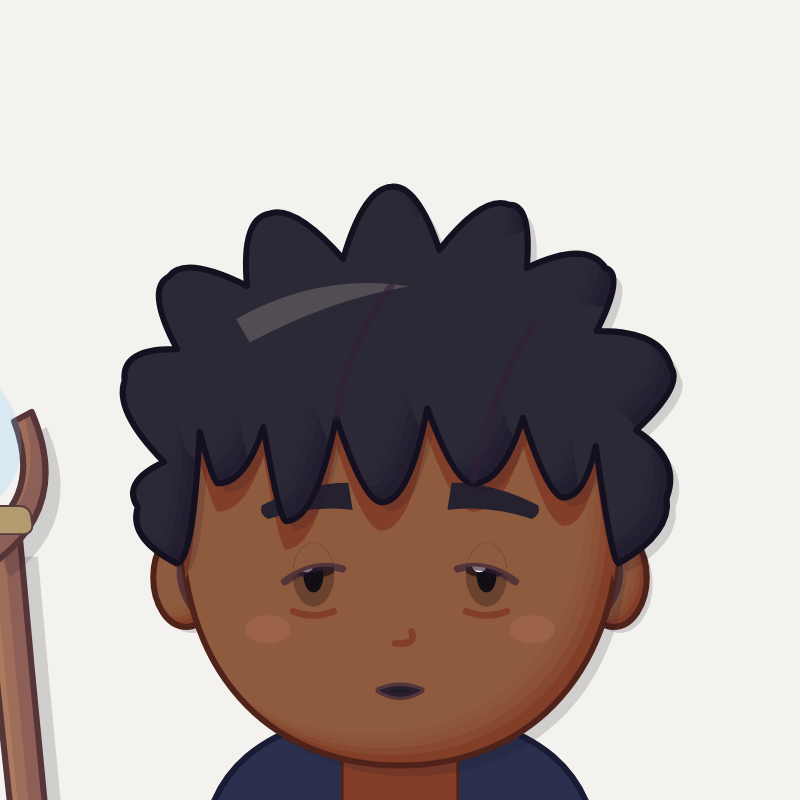
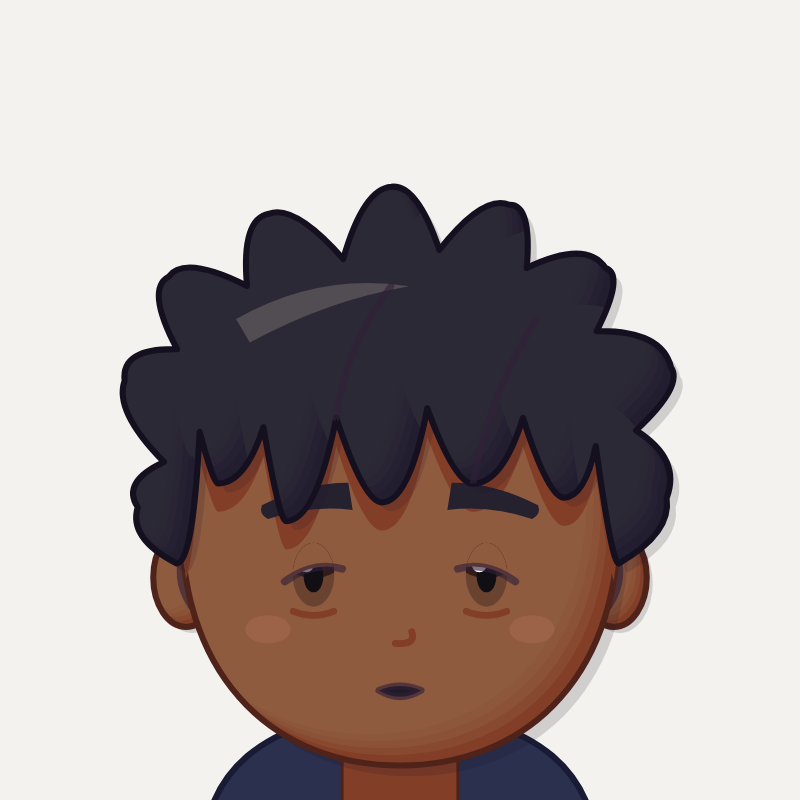
VALDOR: Davi conjura magia com as mãos (sem cajado), novas poses de magia
Claude-Session: https://claude.ai/code/session_01VxVnS8CFWSgiPr5zynEPoR

Changed region(s): [[0.0, 0.5, 0.0938, 1.0]]

diff --git a/animacao-do-chede/personagens/nova/davi/davi-jogo.js b/animacao-do-chede/personagens/nova/davi/davi-jogo.js
@@ -1,5 +1,7 @@
-// DAVI dentro do jogo VALDOR — raça: humano · classe: MAGO (que também luta) · nível 1, equipamento de iniciante.
-// Mesmo rosto e corpo do Davi (davi.js). Carregar: personagem-base.js, nova/cores.js, nova/equipamento.js, davi/davi.js.
+// DAVI dentro do jogo VALDOR — raça: humano · classe: MAGO que conjura com as MÃOS (sem cajado nem varinha) e também luta
+// com a adaga · nível 1, equipamento de iniciante. Mesmo rosto e corpo do Davi (davi.js).
+// Carregar: personagem-base.js, nova/cores.js, nova/equipamento.js, davi/davi.js.
+// Magia nas mãos: qualquer pose com "_magia: 1" (0 a 1.5 = força do brilho) acende as palmas.
 (function () {
   window.DAVI_JOGO_OPCOES = {
     top: { tipo: 'cardiga', cor: 'azulArdosia', corInterna: 'capuzDavi' },
@@ -10,7 +12,12 @@
     capuz: 'capuzDavi', manto: { cor: 'azulArdosia', barra: 'mostarda' },
     cinto: { cor: 'couroEscuro', fivela: 'pedra', bolsa: 'couro' },
     botas: { cor: 'couro', cano: 0.4 }, bracadeira: 'couro',
-    cajado: { mao: 'd', cristal: '#6FC8FF' }, adagaCinto: true,
+    magiaMaos: { cor: '111,200,255' }, adagaCinto: true,
   };
-  window.criarDaviJogo = (opcoes = {}, vista = 'frente') => window.equipar(window.criarDavi({ ...window.DAVI_JOGO_OPCOES, ...opcoes }, vista), window.DAVI_JOGO_EQUIP);
+  window.DAVI_JOGO_POSES = {
+    ...window.POSES_PADRAO,
+    conjurando: { vista: 'frente', expressao: 'determinado', angulos: { braco_d: 62, antebraco_d: 48, braco_e: -62, antebraco_e: -48, coxa_d: 4, canela_d: -2, coxa_e: -4, canela_e: 2, cabeca: 0, _magia: 1 } },
+    'magia-na-mao': { vista: 'tq', expressao: 'espanto', angulos: { braco_d: 75, antebraco_d: 70, mao_d: -20, braco_e: -4, coxa_d: -3, coxa_e: 3, cabeca: -4, _magia: 0.7 } },
+  };
+  window.criarDaviJogo = (opcoes = {}, vista = 'frente') => window.equipar(window.criarPersonagem({ ...window.DAVI_OPCOES, ...window.DAVI_JOGO_OPCOES, ...opcoes, poses: Object.fromEntries(Object.entries(window.DAVI_JOGO_POSES).map(([k, v]) => [k, v.angulos])) }, vista), window.DAVI_JOGO_EQUIP);
 })();

diff --git a/animacao-do-chede/personagens/nova/equipamento.js b/animacao-do-chede/personagens/nova/equipamento.js
@@ -119,6 +119,20 @@
       depois('antebraco_d', brac); depois('antebraco_e', brac);
     }
 
+    if (eq.magiaMaos) {
+      // mago que conjura com as mãos: quando a pose tem _magia, as palmas acendem
+      const cor = eq.magiaMaos.cor || '111,200,255';
+      const brilho = (pc, rig) => {
+        const forca = rig && rig.pose && rig.pose._magia;
+        if (!forca) return;
+        const y = 0.2;
+        for (const [r, a] of [[0.42, 0.1], [0.3, 0.18], [0.2, 0.32], [0.12, 0.6]]) pc.preencher(P((p) => p.arc(0, y, r * forca, 0, Math.PI * 2)), `rgba(${cor},${a})`);
+        pc.preencher(P((p) => p.arc(0, y, 0.06 * forca, 0, Math.PI * 2)), 'rgba(240,252,255,0.95)');
+        for (let i = 0; i < 6; i++) { const an = i * Math.PI / 3 + 0.3, r0 = 0.16 * forca, r1 = 0.3 * forca; pc.linha(P((p) => { p.moveTo(Math.cos(an) * r0, y + Math.sin(an) * r0); p.lineTo(Math.cos(an) * r1, y + Math.sin(an) * r1); }), pc.interno * 0.8, `rgba(${cor},0.8)`); }
+      };
+      depois('mao_d', brilho); depois('mao_e', brilho);
+    }
+
     if (eq.cajado) {
       // cajado de iniciante: galho de madeira com um cristal pequeno preso por cordão
       const m = eq.cajado.mao || 'd', cr = eq.cajado.cristal || '#6FC8FF';

diff --git a/animacao-do-chede/roteiros/nova/ep01.md b/animacao-do-chede/roteiros/nova/ep01.md
@@ -4,7 +4,7 @@
 Formato do vídeo de referência: história contada por um narrador, com ciência explicada no meio (raio-X), corte a cada 2–3 s,
 legenda no meio da tela e palavra-chave em laranja. Duração prevista: **~72 s** (máximo 75 s).
 
-**Personagens:** Davi (protagonista; no jogo: humano, mago que também luta) e Téo (melhor amigo; no jogo: homem-fera, guardião).
+**Personagens:** Davi (protagonista; no jogo: humano, mago que conjura com as mãos e também luta) e Téo (melhor amigo; no jogo: homem-fera, guardião).
 **Segredo do Téo:** homem-fera parece humano de dia; a transformação só aparece à noite (guardar para um episódio futuro).
  Fichas em `personagens/nova/davi/` e `personagens/nova/teo/`.
 **O jogo:** VALDOR, um mundo de fantasia. Você entra deitado numa cadeira com capacete.
@@ -65,10 +65,10 @@ iniciantes, primeiro vão explorar e ficar mais fortes.
 - **Narrador:** "O Téo escolheu homem-fera… e não contou por quê."
 - **Imagem:** Téo toca em "HOMEM-FERA". Por um instante, os olhos dele brilham amarelos, e ele dá um sorrisinho de lado.
 - **Narrador:** "Depois, a classe."
-- **Imagem:** cartas de classe: **MAGO · ASSASSINO · GUARDIÃO · PALADINO**. Davi escolhe **MAGO** e a roupa vira manto azul,
-  com cajado na mão. Téo escolhe **GUARDIÃO** e aparecem a túnica verde, o peitoral, a espada e o escudo.
-- **Narrador:** "Nível 1. Um cajado de galho…"
-- **Imagem:** a plaquinha **"NV 1"** surge na cabeça dos dois. Davi olha o cristalzinho do cajado com cara de decepção
+- **Imagem:** cartas de classe: **MAGO · ASSASSINO · GUARDIÃO · PALADINO**. Davi escolhe **MAGO** e a roupa vira manto azul;
+  uma luzinha azul acende nas palmas das mãos (ele conjura com as mãos, sem cajado nem varinha). Téo escolhe **GUARDIÃO** e aparecem a túnica verde, o peitoral, a espada e o escudo.
+- **Narrador:** "Nível 1. Uma magia que mal acende…"
+- **Imagem:** a plaquinha **"NV 1"** surge na cabeça dos dois. Davi abre a mão, sai uma faisquinha que apaga na hora, e ele faz cara de decepção
   (olhos → cabeça → câmera).
 - **Narrador:** "…e uma espada de madeira."
 - **Imagem:** Téo bate no próprio escudo de tábuas e ri.
@@ -77,7 +77,7 @@ iniciantes, primeiro vão explorar e ficar mais fortes.
 - **Narrador:** "Antes de sonhar alto, eles precisavam ficar fortes."
 - **Imagem:** os dois andando pelo campo, com a câmera girando em volta deles e revelando o mapa enorme ao fundo.
 - **Narrador:** "Primeiro monstro: uma gosma."
-- **Imagem:** uma gosma azul pula na frente deles. Davi solta uma faísca fraquinha do cajado e aparece **"3"** pequeno.
+- **Imagem:** uma gosma azul pula na frente deles. Davi estica as mãos e solta uma faísca fraquinha e aparece **"3"** pequeno.
   Téo segura a gosma com o escudo, e Davi tira a adaga da cintura e acerta: **"5"**. A gosma estoura.
   (O Davi é mago, mas também luta.)
 - **Narrador:** "Ela deixou cair… dois centavos."
